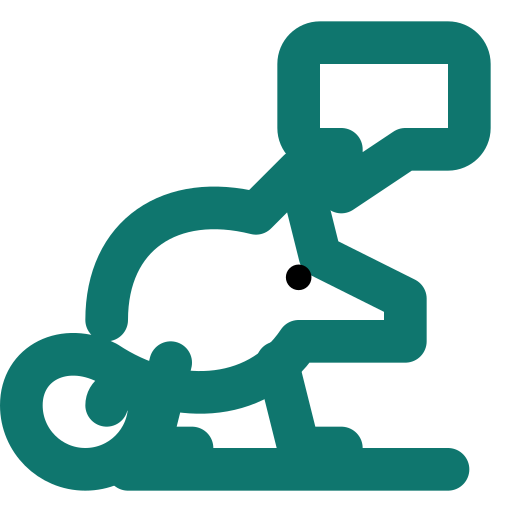
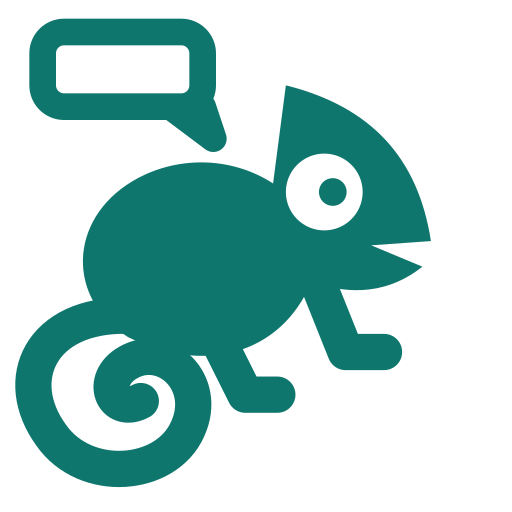
Redraw talking chameleon as a rounded silhouette with a clear spiral tail

diff --git a/tests/unit/workshop-icons.test.tsx b/tests/unit/workshop-icons.test.tsx
@@ -6,6 +6,7 @@ import { WORKSHOP_ICONS, WorkshopIcon } from "../../src/components/training-week
 import { SESSIONS } from "../../src/lib/training-week/schedule-2026";
 import { CapacityMonitor } from "../../src/components/training-week/CapacityMonitor";
 import { sessionCapacity } from "../../src/lib/training-week/capacity";
+import sharp from "sharp";
 
 test("every current session has its own icon, keyed by stable slug rather than title or order", () => {
   assert.deepEqual(Object.keys(WORKSHOP_ICONS).sort(), SESSIONS.map((s) => s.slug).sort());
@@ -27,4 +28,12 @@ test("the shared dashboard keeps named workshop links and capacity data alongsid
   for (const s of SESSIONS) assert.ok(html.includes(`aria-label="View registrants for ${s.title.replaceAll("&", "&amp;")}"`));
   assert.equal((html.match(/class="lucide lucide-/g) ?? []).length, SESSIONS.length + 1);
   assert.match(html, /0\/20<\/strong> requested/);
+});
+
+test("the rounded chameleon exports its filled silhouette in teal with a transparent eye cutout", async () => {
+  const png = "public/workshop-icons/communication-chameleon.png";
+  const body = await sharp(png).extract({ left: 192, top: 235, width: 1, height: 1 }).raw().toBuffer();
+  assert.deepEqual([...body], [15, 118, 110, 255]);
+  const eye = await sharp(png).extract({ left: 300, top: 192, width: 1, height: 1 }).raw().toBuffer();
+  assert.equal(eye[3], 0, "eye remains transparent on light and dark backgrounds");
 });

diff --git a/src/components/training-week/WorkshopIcon.tsx b/src/components/training-week/WorkshopIcon.tsx
@@ -1,10 +1,11 @@
 import { Compass, createLucideIcon, Factory, Lightbulb, Microscope, Presentation, ShieldPlus } from "lucide-react";
 
 const TalkingChameleon = createLucideIcon("TalkingChameleon", [
-  ["path", { d: "M15 2h6a1 1 0 0 1 1 1v3a1 1 0 0 1-1 1h-2l-3 2V7h-1a1 1 0 0 1-1-1V3a1 1 0 0 1 1-1Z", key: "speech" }],
-  ["path", { d: "M5 15c0-4 3-6 7-5l2-2 1 4 4 2v2h-5c-2 3-6 3-9 1-2-1-4 0-4 2a3 3 0 0 0 6 0c0-1-2-1-2 0", key: "chameleon" }],
-  ["circle", { cx: "14", cy: "13", r: ".6", fill: "currentColor", stroke: "none", key: "eye" }],
-  ["path", { d: "m8 17-1 4h2m4-4 1 4h2M6 22h15", key: "perch" }],
+  ["path", { d: "M3 1.5h5.5a1 1 0 0 1 1 1V4a1 1 0 0 1-1 1H8l2 1.5L9.5 5H3a1 1 0 0 1-1-1V2.5a1 1 0 0 1 1-1Z", strokeWidth: "1.25", key: "speech" }],
+  ["path", { d: "M6 15.8C3.1 14 3.2 10.3 6.2 8.5c2-1.2 4.6-1.2 6.6.1l.6-4.6c4 1 6.2 3.4 6.8 7.3l-2.8.2 2.4 1c-1.5 1.2-3.3 1.4-5.2.7-1.4 3.4-5 4.4-8.6 2.6ZM17 9a1.8 1.8 0 1 0-3.6 0A1.8 1.8 0 1 0 17 9Z", fill: "currentColor", fillRule: "evenodd", stroke: "none", key: "chameleon" }],
+  ["circle", { cx: "15.6", cy: "9", r: ".65", fill: "currentColor", stroke: "none", key: "eye" }],
+  ["path", { d: "M6 14.8c-4.1-.1-5.5 3-3.6 5.6 1.6 2.3 5.4 2 6.4-.3 1-2.2-1.1-4.1-2.8-3.1-1.4.8-.7 2.5.6 1.8", strokeWidth: "1.7", key: "spiral-tail" }],
+  ["path", { d: "m10 15.5 1.5 3H13m2-5 1.2 3H18", strokeWidth: "1.7", key: "feet" }],
 ]);
 
 export const WORKSHOP_ICONS = {
